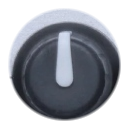
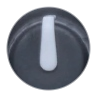
Add files via upload

diff --git a/Source/PluginEditor.cpp b/Source/PluginEditor.cpp
@@ -91,7 +91,6 @@ RevTremAudioProcessorEditor::~RevTremAudioProcessorEditor()
 
 void RevTremAudioProcessorEditor::setupKnob (juce::Slider& slider, const char* paramId)
 {
-    // RotaryHorizontalVerticalDrag allows dragging up/down OR left/right!
     slider.setSliderStyle (juce::Slider::RotaryHorizontalVerticalDrag);
     slider.setTextBoxStyle (juce::Slider::NoTextBox, false, 0, 0);
     slider.setRotaryParameters (-2.35619f, 2.35619f, true);
@@ -124,32 +123,16 @@ void RevTremAudioProcessorEditor::paint (juce::Graphics& g)
 
     if (isEngaged)
     {
-        // Glowing Neon Red Halo
-        juce::ColourGradient halo (juce::Colour (255, 30, 30).withAlpha (0.6f), redLedX, redLedY,
-                                   juce::Colour (255, 30, 30).withAlpha (0.0f), redLedX + 16.0f, redLedY + 16.0f, true);
+        // Glowing Neon Red Halo over hardware LED
+        juce::ColourGradient halo (juce::Colour (255, 30, 30).withAlpha (0.60f), redLedX, redLedY,
+                                   juce::Colour (255, 30, 30).withAlpha (0.0f), redLedX + 14.0f, redLedY + 14.0f, true);
         g.setGradientFill (halo);
-        g.fillEllipse (redLedX - 16.0f, redLedY - 16.0f, 32.0f, 32.0f);
+        g.fillEllipse (redLedX - 14.0f, redLedY - 14.0f, 28.0f, 28.0f);
 
-        // Bright LED Core
-        juce::ColourGradient core (juce::Colour (255, 160, 160), redLedX - 2.0f, redLedY - 2.0f,
-                                   juce::Colour (220, 20, 20), redLedX + 5.0f, redLedY + 5.0f, false);
+        juce::ColourGradient core (juce::Colour (255, 175, 175), redLedX - 1.5f, redLedY - 1.5f,
+                                   juce::Colour (220, 25, 25), redLedX + 4.0f, redLedY + 4.0f, false);
         g.setGradientFill (core);
-        g.fillEllipse (redLedX - 6.0f, redLedY - 6.0f, 12.0f, 12.0f);
-
-        // Specular dot
-        g.setColour (juce::Colours::white.withAlpha (0.85f));
-        g.fillEllipse (redLedX - 3.5f, redLedY - 3.5f, 3.0f, 3.0f);
-    }
-    else
-    {
-        // Dark unlit burgundy LED
-        juce::ColourGradient offCore (juce::Colour (90, 30, 35), redLedX - 2.0f, redLedY - 2.0f,
-                                      juce::Colour (40, 15, 18), redLedX + 5.0f, redLedY + 5.0f, false);
-        g.setGradientFill (offCore);
-        g.fillEllipse (redLedX - 5.5f, redLedY - 5.5f, 11.0f, 11.0f);
-
-        g.setColour (juce::Colours::white.withAlpha (0.25f));
-        g.fillEllipse (redLedX - 3.0f, redLedY - 3.0f, 2.5f, 2.5f);
+        g.fillEllipse (redLedX - 5.0f, redLedY - 5.0f, 10.0f, 10.0f);
     }
 
     // 3) Green TAP Tempo LED at (723, 458)
@@ -157,34 +140,18 @@ void RevTremAudioProcessorEditor::paint (juce::Graphics& g)
     const float grnLedY = 458.0f;
     const float lfoNorm = 0.5f + 0.5f * std::cos (localLfoPhase);
 
-    if (lfoNorm > 0.35f)
+    if (lfoNorm > 0.40f)
     {
-        const float alpha = (lfoNorm - 0.35f) / 0.65f;
-        // Neon Green Halo
+        const float alpha = (lfoNorm - 0.40f) / 0.60f;
         juce::ColourGradient halo (juce::Colour (40, 255, 120).withAlpha (0.55f * alpha), grnLedX, grnLedY,
-                                   juce::Colour (40, 255, 120).withAlpha (0.0f), grnLedX + 16.0f, grnLedY + 16.0f, true);
+                                   juce::Colour (40, 255, 120).withAlpha (0.0f), grnLedX + 14.0f, grnLedY + 14.0f, true);
         g.setGradientFill (halo);
-        g.fillEllipse (grnLedX - 16.0f, grnLedY - 16.0f, 32.0f, 32.0f);
+        g.fillEllipse (grnLedX - 14.0f, grnLedY - 14.0f, 28.0f, 28.0f);
 
-        // Glowing Green Core
-        juce::ColourGradient core (juce::Colour (180, 255, 210), grnLedX - 2.0f, grnLedY - 2.0f,
-                                   juce::Colour (20, 200, 80), grnLedX + 5.0f, grnLedY + 5.0f, false);
+        juce::ColourGradient core (juce::Colour (205, 255, 225), grnLedX - 1.5f, grnLedY - 1.5f,
+                                   juce::Colour (25, 215, 85), grnLedX + 4.0f, grnLedY + 4.0f, false);
         g.setGradientFill (core);
-        g.fillEllipse (grnLedX - 6.0f, grnLedY - 6.0f, 12.0f, 12.0f);
-
-        g.setColour (juce::Colours::white.withAlpha (0.8f * alpha));
-        g.fillEllipse (grnLedX - 3.5f, grnLedY - 3.5f, 3.0f, 3.0f);
-    }
-    else
-    {
-        // Dark unlit teal/green LED
-        juce::ColourGradient offCore (juce::Colour (30, 75, 55), grnLedX - 2.0f, grnLedY - 2.0f,
-                                      juce::Colour (15, 35, 25), grnLedX + 5.0f, grnLedY + 5.0f, false);
-        g.setGradientFill (offCore);
-        g.fillEllipse (grnLedX - 5.5f, grnLedY - 5.5f, 11.0f, 11.0f);
-
-        g.setColour (juce::Colours::white.withAlpha (0.2f));
-        g.fillEllipse (grnLedX - 3.0f, grnLedY - 3.0f, 2.5f, 2.5f);
+        g.fillEllipse (grnLedX - 5.0f, grnLedY - 5.0f, 10.0f, 10.0f);
     }
 }
 
@@ -220,7 +187,6 @@ void RevTremAudioProcessorEditor::resized()
 
 void RevTremAudioProcessorEditor::timerCallback()
 {
-    // Keep local LFO phase updated according to current tempo so LED pulses continuously
     if (auto* pTempo = processor.apvts.getRawParameterValue ("tempo"))
     {
         const float tempoHz = pTempo->load();

diff --git a/Source/PluginEditor.h b/Source/PluginEditor.h
@@ -19,17 +19,17 @@ public:
 
     void paintButton (juce::Graphics& g, bool /*isHighlighted*/, bool isButtonDown) override
     {
-        auto bounds = getLocalBounds().toFloat().reduced (2.0f);
+        auto bounds = getLocalBounds().toFloat().reduced (1.0f);
 
         // Switch metal bezel / recess
-        g.setColour (juce::Colour (30, 32, 36));
+        g.setColour (juce::Colour (28, 30, 34));
         g.fillRoundedRectangle (bounds, 3.0f);
-        g.setColour (juce::Colour (100, 105, 115));
+        g.setColour (juce::Colour (95, 100, 110));
         g.drawRoundedRectangle (bounds, 3.0f, 1.2f);
 
         // Slide track
-        auto track = bounds.reduced (isVertical ? 4.0f : 2.0f, isVertical ? 2.0f : 4.0f);
-        g.setColour (juce::Colour (15, 16, 18));
+        auto track = bounds.reduced (isVertical ? 3.0f : 2.0f, isVertical ? 2.0f : 3.0f);
+        g.setColour (juce::Colour (14, 15, 17));
         g.fillRoundedRectangle (track, 2.0f);
 
         // Textured black rectangular switch thumb
@@ -49,17 +49,17 @@ public:
         }
 
         // Thumb shadow and gradient
-        g.setColour (juce::Colours::black.withAlpha (0.5f));
+        g.setColour (juce::Colours::black.withAlpha (0.45f));
         g.fillRoundedRectangle (thumb.translated (0.5f, 1.0f), 2.0f);
 
-        juce::ColourGradient cg (isButtonDown ? juce::Colour (50, 55, 62) : juce::Colour (70, 75, 82),
+        juce::ColourGradient cg (isButtonDown ? juce::Colour (48, 52, 58) : juce::Colour (68, 72, 80),
                                  thumb.getTopLeft(),
-                                 juce::Colour (35, 38, 42), thumb.getBottomRight(), false);
+                                 juce::Colour (32, 35, 40), thumb.getBottomRight(), false);
         g.setGradientFill (cg);
         g.fillRoundedRectangle (thumb, 2.0f);
 
         // Ridge lines on thumb
-        g.setColour (juce::Colour (20, 22, 25));
+        g.setColour (juce::Colour (18, 20, 24));
         if (isVertical)
         {
             const float midY = thumb.getCentreY();
@@ -109,44 +109,21 @@ public:
 
     void paint (juce::Graphics& g) override
     {
-        const float w = (float) getWidth();
-        const float h = (float) getHeight();
-        const float cx = w * 0.5f;
-        const float cy = h * 0.5f;
-        const float baseR = juce::jmin (w, h) * 0.44f;
-        const float r = isPressed ? (baseR * 0.94f) : baseR;
-
-        // Subtle drop shadow when resting, deeper inset shadow when pressed
-        if (! isPressed)
+        // Resting: Draws nothing! The authentic hardware arcade button from pedal_bg.png shows through!
+        // Pressed: Draws a subtle inner shadow overlay giving tactile physical feedback
+        if (isPressed)
         {
-            g.setColour (juce::Colours::black.withAlpha (0.45f));
-            g.fillEllipse (cx - r + 2.f, cy - r + 3.f, r * 2.f, r * 2.f);
+            const float w = (float) getWidth();
+            const float h = (float) getHeight();
+            const float cx = w * 0.5f;
+            const float cy = h * 0.5f;
+            const float r = juce::jmin (w, h) * 0.40f;
+
+            juce::ColourGradient shadow (juce::Colours::black.withAlpha (0.45f), cx, cy,
+                                         juce::Colours::black.withAlpha (0.12f), cx + r, cy + r, true);
+            g.setGradientFill (shadow);
+            g.fillEllipse (cx - r, cy - r, r * 2.0f, r * 2.0f);
         }
-
-        // Outer glossy bevel of inner plunger
-        juce::ColourGradient bevelGrad (juce::Colour (50, 54, 60), cx - r * 0.6f, cy - r * 0.6f,
-                                        juce::Colour (10, 11, 13), cx + r * 0.8f, cy + r * 0.8f, false);
-        g.setGradientFill (bevelGrad);
-        g.fillEllipse (cx - r, cy - r, r * 2.f, r * 2.f);
-
-        // Domed top face
-        const float innerR = r * 0.86f;
-        const float offsetY = isPressed ? 1.5f : 0.f;
-        juce::ColourGradient domeGrad (isPressed ? juce::Colour (35, 38, 42) : juce::Colour (65, 70, 78),
-                                       cx - innerR * 0.4f, cy - innerR * 0.5f + offsetY,
-                                       juce::Colour (18, 19, 22),
-                                       cx + innerR * 0.6f, cy + innerR * 0.7f + offsetY, false);
-        g.setGradientFill (domeGrad);
-        g.fillEllipse (cx - innerR, cy - innerR + offsetY, innerR * 2.f, innerR * 2.f);
-
-        // Specular reflection highlight curve
-        juce::Path highlight;
-        const float arcR = innerR * 0.72f;
-        highlight.addCentredArc (cx, cy + offsetY, arcR, arcR * 0.8f, 0.f,
-                                 -juce::MathConstants<float>::pi * 0.85f,
-                                 -juce::MathConstants<float>::pi * 0.15f, true);
-        g.setColour (juce::Colours::white.withAlpha (isPressed ? 0.08f : 0.22f));
-        g.strokePath (highlight, juce::PathStrokeType (3.0f, juce::PathStrokeType::curved, juce::PathStrokeType::rounded));
     }
 
 private:

diff --git a/Source/TeilLookAndFeel.h b/Source/TeilLookAndFeel.h
@@ -22,50 +22,37 @@ public:
         const float cx = (float) x + (float) width * 0.5f;
         const float cy = (float) y + (float) height * 0.5f;
 
+        // 1. Soft stationary ambient drop shadow
+        g.setColour (juce::Colours::black.withAlpha (0.40f));
+        g.fillEllipse (cx - 43.0f, cy - 40.0f, 86.0f, 86.0f);
+
+        // 2. Draw rotated authentic photographic knob (false ensures full colors & pointer line are drawn!)
         if (knobImage.isValid())
         {
             const float imgW = (float) knobImage.getWidth();
             const float imgH = (float) knobImage.getHeight();
-            const float targetSize = (float) juce::jmin (width, height);
-            const float scale = targetSize / imgW;
 
             auto transform = juce::AffineTransform::rotation (toAngle, imgW * 0.5f, imgH * 0.5f)
-                                                  .scaled (scale)
-                                                  .translated (cx - imgW * 0.5f * scale,
-                                                               cy - imgH * 0.5f * scale);
+                                                  .translated (cx - imgW * 0.5f, cy - imgH * 0.5f);
 
-            // Important: false ensures full RGB colors & pointer line are drawn, not a flat color mask!
             g.drawImageTransformed (knobImage, transform, false);
         }
         else
         {
             // Procedural fallback
-            const float radius = (float) juce::jmin (width, height) * 0.42f;
+            const float r = 42.0f;
+            juce::ColourGradient grad (juce::Colour (60, 64, 72), cx - r * 0.5f, cy - r * 0.5f,
+                                       juce::Colour (25, 27, 32), cx + r, cy + r, false);
+            g.setGradientFill (grad);
+            g.fillEllipse (cx - r, cy - r, r * 2.0f, r * 2.0f);
 
-            // Drop shadow
-            g.setColour (juce::Colours::black.withAlpha (0.4f));
-            g.fillEllipse (cx - radius + 2.f, cy - radius + 3.f, radius * 2.f, radius * 2.f);
-
-            // Outer fluted skirt
-            g.setGradientFill (juce::ColourGradient (juce::Colour (55, 58, 65), cx - radius, cy - radius,
-                                                     juce::Colour (25, 27, 30), cx + radius, cy + radius, false));
-            g.fillEllipse (cx - radius, cy - radius, radius * 2.f, radius * 2.f);
-
-            // Inner cap
-            const float innerR = radius * 0.78f;
-            g.setGradientFill (juce::ColourGradient (juce::Colour (70, 74, 82), cx - innerR * 0.5f, cy - innerR * 0.5f,
-                                                     juce::Colour (35, 37, 42), cx + innerR, cy + innerR, false));
-            g.fillEllipse (cx - innerR, cy - innerR, innerR * 2.f, innerR * 2.f);
+            juce::Path p;
+            p.startNewSubPath (0.f, -10.f);
+            p.lineTo (0.f, -38.f);
+            g.setColour (juce::Colour (245, 248, 255));
+            g.strokePath (p, juce::PathStrokeType (3.0f, juce::PathStrokeType::curved, juce::PathStrokeType::rounded),
+                          juce::AffineTransform::rotation (toAngle).translated (cx, cy));
         }
-
-        // Crisp high-contrast white indicator line that rotates seamlessly
-        const float lineLen = (float) juce::jmin (width, height) * 0.32f;
-        juce::Path p;
-        p.startNewSubPath (0.f, -lineLen * 0.20f);
-        p.lineTo (0.f, -lineLen);
-        g.setColour (juce::Colour (245, 248, 255));
-        g.strokePath (p, juce::PathStrokeType (3.0f, juce::PathStrokeType::curved, juce::PathStrokeType::rounded),
-                      juce::AffineTransform::rotation (toAngle).translated (cx, cy));
     }
 
 private:
